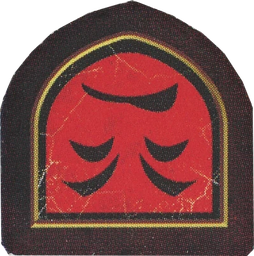
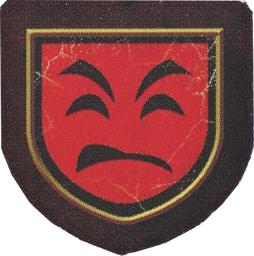
Città 3D a incastro, gettoni dell'umore dritti, IA più costruttrice
- edifici e meraviglie si incastrano attorno all'insediamento con la parte incavata verso il centro
  (stessa scala dei modelli, quattro posti a 90°, il porto rivolto al suo mare); unità negli spazi liberi
- gettoni Felice/Arrabbiata ruotati: nella texture del modulo erano capovolti
- IA: i coloni puntano a un posto preciso invece di oscillare, edifici più appetibili, meno doppie
  attivazioni che fanno arrabbiare le città, risparmio di Cultura e città Felice per le meraviglie
- sim: statistiche di città, edifici e meraviglie

Claude-Session: https://claude.ai/code/session_01WXnodwFAuNyGBfzzzxyxsk

diff --git a/tools/prepara_asset.py b/tools/prepara_asset.py
@@ -132,7 +132,10 @@ udir = mk('tokens')
 for name, key in (('happy', '6B38025CFF15CE11470B8992'), ('angry', '9B0FDD70F64B137EBAEA4781'),
                   ('culture', '1FC8411CF7A644918FDEC30C'), ('exhausted', 'C5498FDEE4E3C64B7B4D908A'),
                   ('first', '77D1B65EC679ED0668A3CACA')):
-    im = img(key).convert('RGBA'); im.thumbnail((256, 256), Image.LANCZOS); im.save(os.path.join(udir, name + '.png'))
+    im = img(key).convert('RGBA'); im.thumbnail((256, 256), Image.LANCZOS)
+    if name in ('happy', 'angry'):
+        im = im.rotate(180)   # nella texture del modulo le facce sono capovolte
+    im.save(os.path.join(udir, name + '.png'))
 
 # ---------------------------------------------------------------- modelli 3D
 mdir = mk('models')
